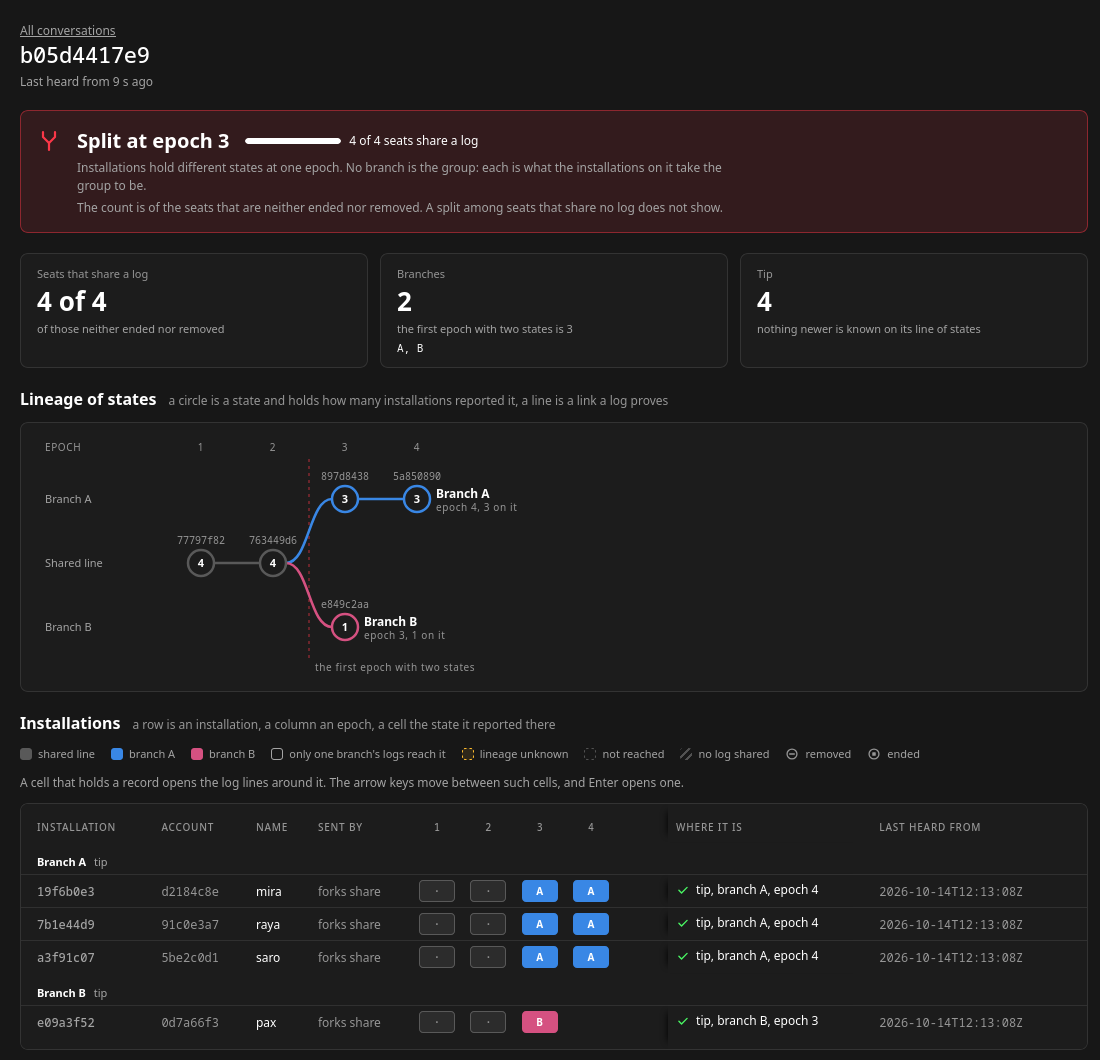
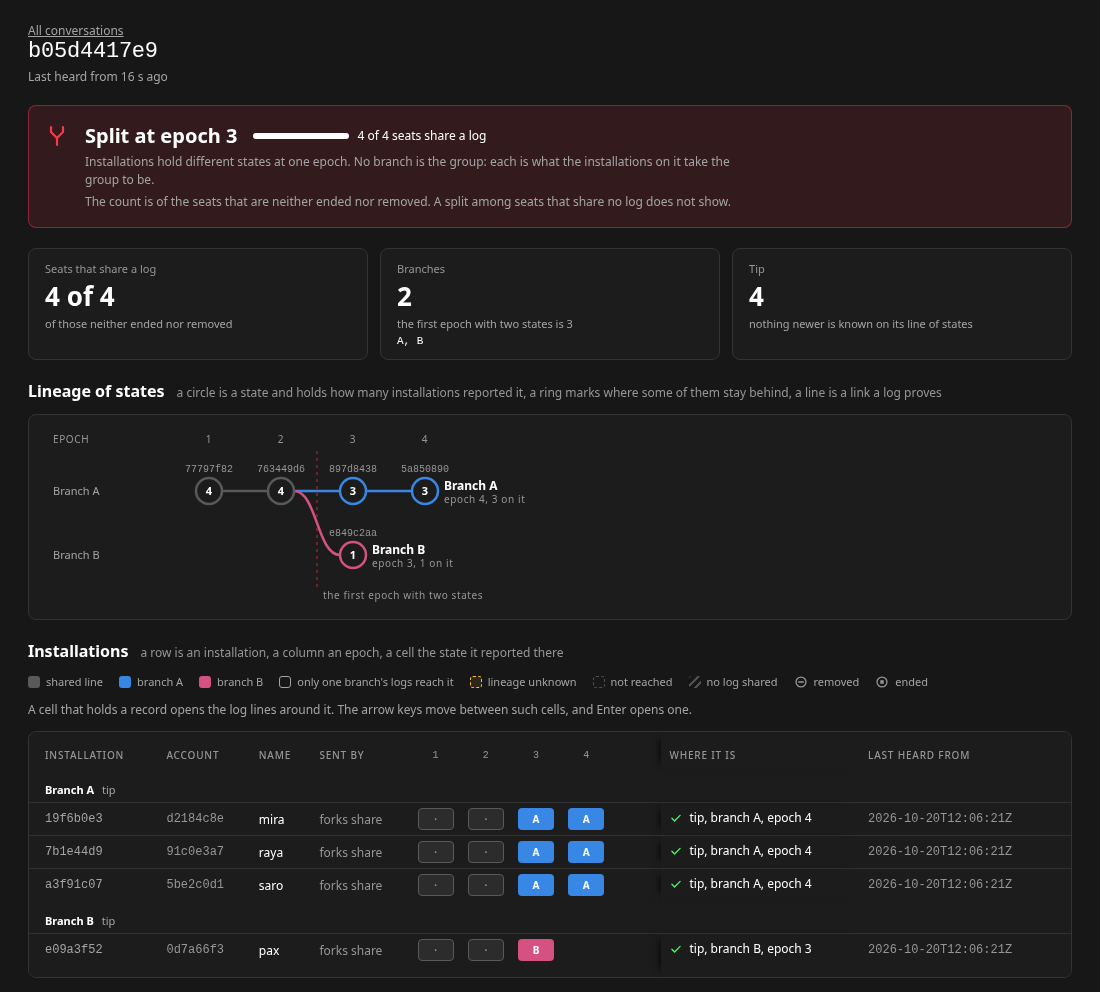
docs: draw the lineage a row for each line, and name a split's commits
The report's page now draws each line of states in a row of its own,
so the split no longer has a shared line between its two branches,
and the text report names the commit that made each branch's first
state and who committed it. The page's picture and the sample report
showed neither.

diff --git a/src/content/docs/read-the-report.md b/src/content/docs/read-the-report.md
@@ -19,8 +19,10 @@ conversation b05d4417e9
   4 of 4 seats share a log
 
   branch A: epoch 4, state 5a850890461cab7f, 4 members
+    first state at epoch 3, made by commit c41f9be27a6d03e5 by a3f91c07
     on it: 19f6b0e3, 7b1e44d9, a3f91c07
   branch B: epoch 3, state e849c2aa9ab1f74d, 4 members
+    first state at epoch 3, made by commit 77b0a1c2d3e4f5a6 by 7b1e44d9
     on it: e09a3f52
 
   installation  account   name  epoch  position  branch
@@ -38,6 +40,7 @@ lines: 69 read, 42 records, 0 without a stamp, 0 malformed, 0 unknown
 | verdict | one of the verdicts below |
 | `S of T seats share a log` | T counts the seats neither removed nor ended, S those of them whose log is here. The lower S, the less a `whole` is worth |
 | `branch` | the newest state on each branch, its roster's size, and who is on it. Without a split there is one branch, `A`. A branch can have `nobody` on it |
+| `first state` | with a split, the commit that made a branch's first state and the installation that committed it, where the logs name one |
 | the table | every seat: its newest epoch, its position, its branch. `name` lists the runs it wrote in, each its log's file name without `.log`; a one-process run writes every member into `group.log`, so each shows `group` |
 | `lines` | what was read. Malformed records are skipped and counted in a line above this one, and the report exits 1 |
 
